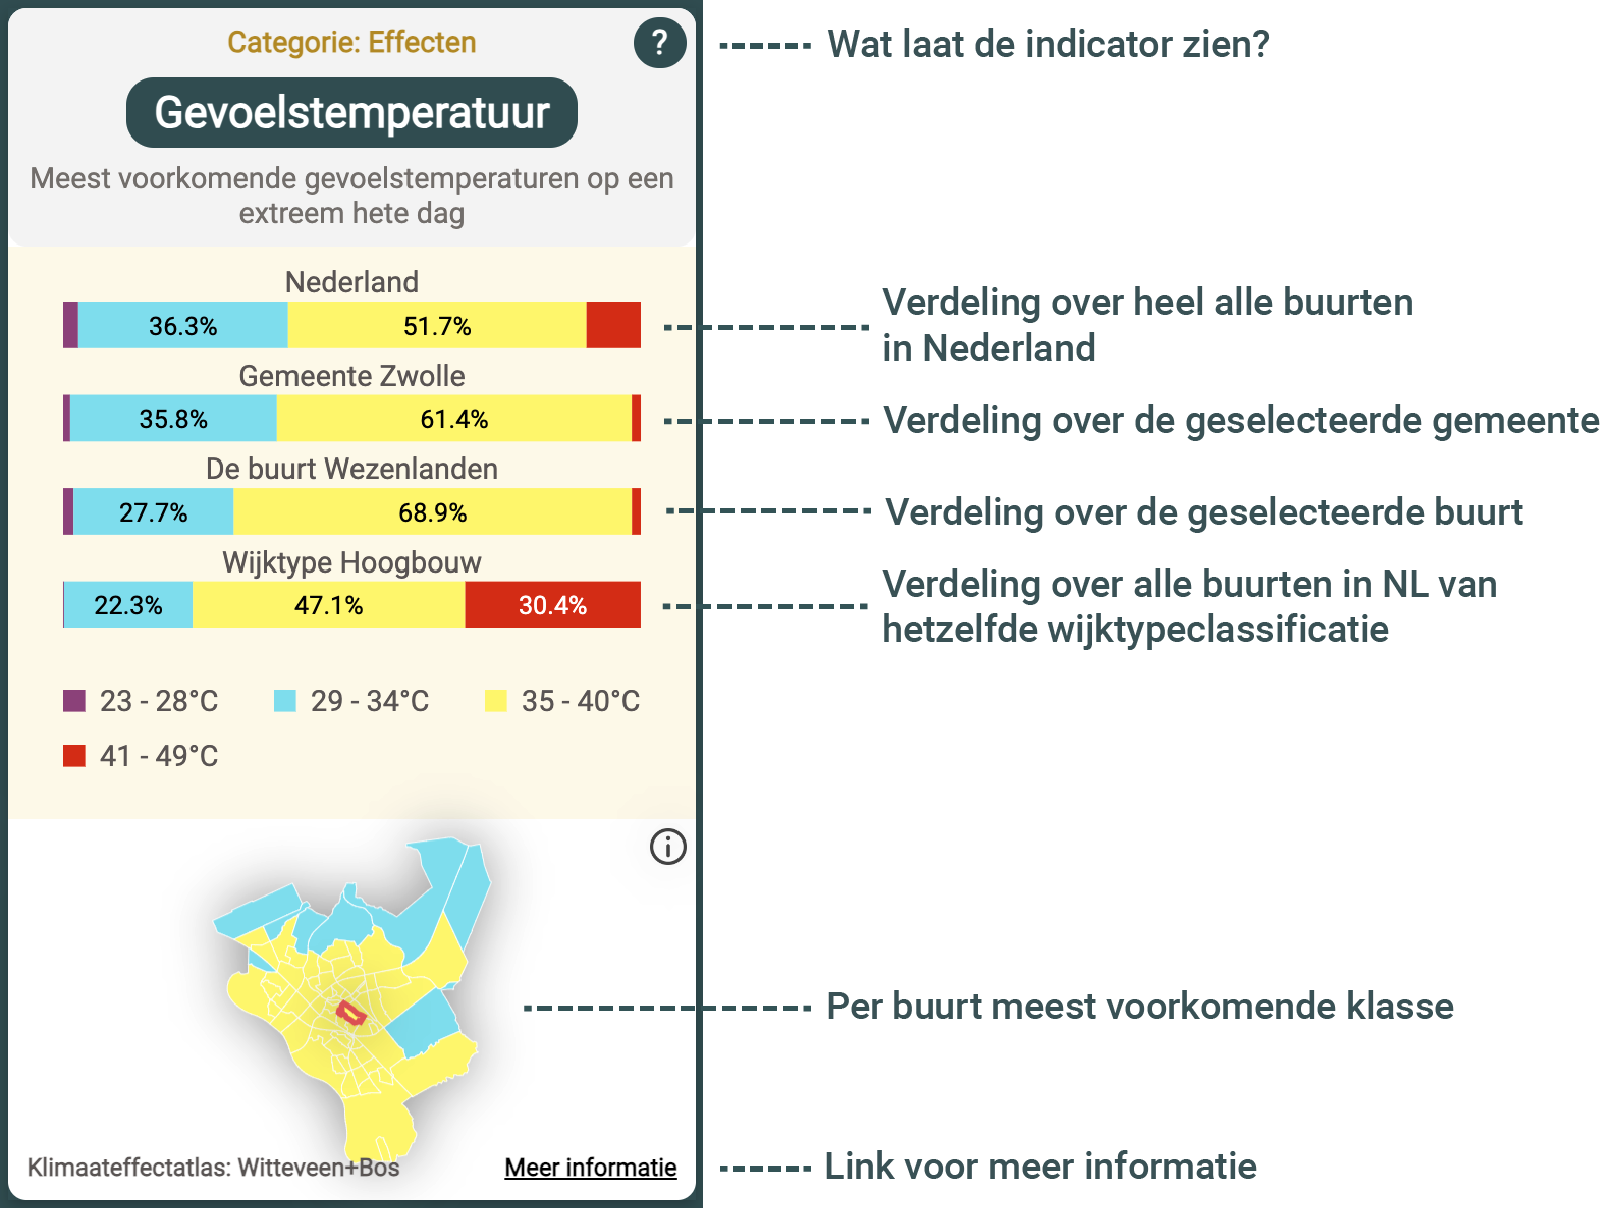
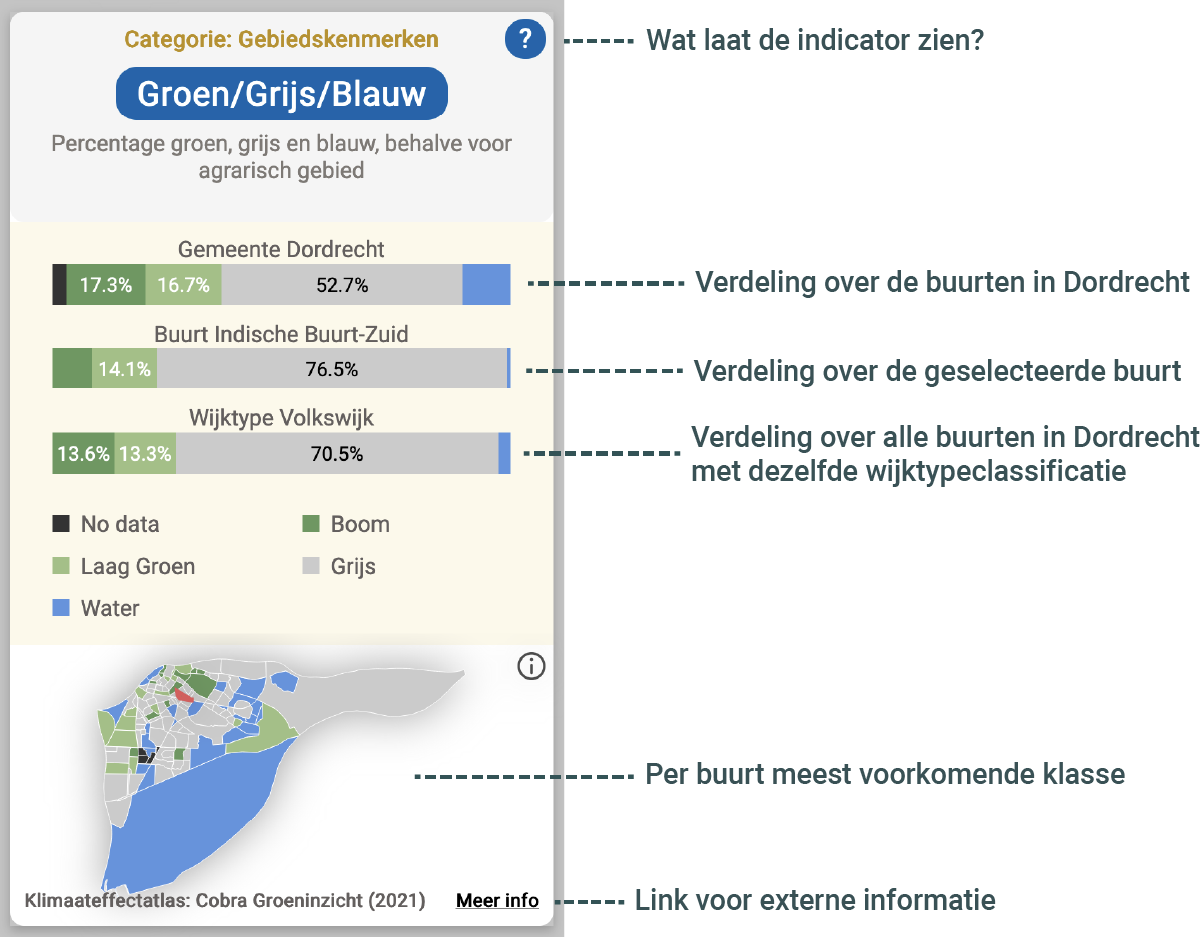
update carousel

Changed region(s): [[0.0, 0.0, 1.0, 1.0]]

diff --git a/src/lib/components/Indicator.svelte b/src/lib/components/Indicator.svelte
@@ -1,5 +1,5 @@
 <script>
-  import { municipalitySelection, neighbourhoodsInMunicipalityJSONData, allNeighbourhoodsJSONData, alleIndicatoren2019, alleIndicatoren2023, jaarSelecties, municipalityCodeAbbreviation, municipalityNameAbbreviation } from "$lib/stores";
+  import { municipalitySelection, neighbourhoodsInMunicipalityJSONData, allNeighbourhoodsJSONData, alleIndicatoren2019, alleIndicatoren2023, jaarSelecties, municipalityCodeAbbreviation, municipalityNameAbbreviation, backgroundColor } from "$lib/stores";
   import BeeswarmPlot from "./BeeswarmPlot.svelte";
   import Stats from "./Stats.svelte";
   import { scaleLinear, extent, scaleOrdinal } from 'd3';
@@ -66,16 +66,16 @@
 </script>
 
 <div class='indicator-div'>
-  <h3 class='question-mark' style='padding:3px 10px 3px 10px; margin:0; position:absolute; border-radius:50px; right:5px; top:5px; color:white;background-color:#36575B; cursor:default'>?</h3>
+  <h3 class='question-mark' style='padding:3px 10px 3px 10px; margin:0; position:absolute; border-radius:50px; right:5px; top:5px; color:white;background-color:{$backgroundColor}; cursor:default'>?</h3>
   <div class={'indicator-info indicator-info-'+indicator.attribute} style='left:{indicatorInfoPosition}px'>
-    <p style='padding:3px 10px 3px 10px; border-radius:50px; color:white;background-color:#36575B; float:left'><strong>{indicator.title}</strong></p>
+    <p style='padding:3px 10px 3px 10px; border-radius:50px; color:white;background-color:{$backgroundColor}; float:left'><strong>{indicator.title}</strong></p>
     <hr width='100%'>
     <p>{indicator.description}</p>
   </div>
 
   <div class='indicator-title' style='height: {titleHeight}px'>
     <h4 style='margin:0px; color:#BB9012'>{t("Categorie")}: {indicator.category}</h4>
-    <h2 style='padding:5px 15px 5px 15px; margin:10px 0px 7px 0px; background-color:#36575B; border-radius:15px; color:white'>{indicator.title}</h2>
+    <h2 style='padding:5px 15px 5px 15px; margin:10px 0px 7px 0px; background-color:{$backgroundColor}; border-radius:15px; color:white'>{indicator.title}</h2>
     <h4 style='margin:0px; padding:0px 10px 0px 10px; font-weight:normal; color:#7e7975; text-align: center;'>{indicator.subtitle}</h4>
     {#if indicator.title === 'Boomkroonbedekking' || indicator.title === 'Boomkroonbedekking 500m'}
       <YearSwitch {indicator} />
@@ -108,7 +108,9 @@
       {/if}
       <span style='width:100%; position:absolute; bottom:0px; display:flex; justify-content:space-between; pointer-events:none'>
         <h5><strong>{indicator.source}</strong></h5>
-        <h5 style='pointer-events:auto'><a target='_blank' href={indicator.link}>{t("Meer_info")}</a></h5>
+        {#if indicator.link}
+          <h5 style='pointer-events:auto'><a target='_blank' href={indicator.link}>{t("Meer_info")}</a></h5>
+        {/if}
       </span>
     </div>
   </div>

diff --git a/src/lib/i18n/en.js b/src/lib/i18n/en.js
@@ -19,8 +19,8 @@ export const english = {
   "Gevoelstemperatuur":"Perceived temperature",
   'Grondwaterstand 2050 hoog':'Groundwater level 2050 high',
   "Over dit dashboard":"<h1>Neighborhood Dashboard Climate Impact Atlas</h1><p>Would you like to gain insights into how climate-resilient one or more neighborhoods are? This neighborhood dashboard can help with that.</p><h3>What can you do with the Neighborhood Dashboard?</h3><p>The neighborhood dashboard provides a quick insight into the climate resilience of neighborhoods. For example, you can find out how green a neighborhood is or what the perceived temperature is on a hot summer day. You can compare the statistics with neighborhoods of the same district type or with the rest of the municipality. The dashboard can also help determine which challenges are the most urgent or where the greatest opportunities for climate adaptation lie.</p><h3>Who is the neighborhood dashboard a useful tool for?</h3><p>The neighborhood dashboard is particularly useful for municipalities. However, other parties involved in climate adaptation can also make use of it.</p><h3>Is the dashboard only suitable for urban areas?</h3><p>The neighborhood dashboard mainly provides insights into urban neighborhoods, although it also includes rural neighborhoods.</p><h3>How was the neighborhood dashboard developed?</h3><p>Much of the information in the neighborhood dashboard comes directly from the Climate Impact Atlas, but some data are from other sources, such as CBS and RIVM. The neighborhood dashboard was developed in collaboration with the Hogeschool van Amsterdam and Deltares.</p>",
-  "Indicator 1": "Indicator type 1: Single numerical indicator",
-  "Indicator 2": "Indicator type 2: Multiple categorical indicator",
+  "Indicator 1": "Indicator type 1: Numerical indicator",
+  "Indicator 2": "Indicator type 2: Categorical indicator",
   "Carousel1-path":"carousel-2-en.png",
   "Carousel2-path":"carousel-1-en.png",
 

diff --git a/src/lib/i18n/nl.js b/src/lib/i18n/nl.js
@@ -19,8 +19,8 @@ export const nederlands = {
   "Gevoelstemperatuur":"Gevoelstemperatuur",
   'Grondwaterstand 2050 hoog':'Grondwaterstand 2050 hoog',
   "Over dit dashboard":"<h1>Buurtdashboard Klimaateffectatlas</h1><p>Wil je voor één of meer buurten inzicht krijgen in hoe klimaatbestendig ze zijn? Daar kan dit buurtdashboard je bij helpen.</p><h3>Wat kun je met het Buurtdashboard?</h3><p>Met het buurtdashboard krijg je snel inzicht in hoe klimaatbestendig buurten zijn. Je kunt er bijvoorbeeld vinden hoe groen een buurt is of hoe hoog de gevoelstemperatuur is op een warme zomerdag. De statistieken kun je vergelijken met buurten van hetzelfde wijktype of met de rest van de gemeente. Ook kan het buurtdashboard helpen om te bepalen welke opgaven het meest urgent zijn of waar de meeste kansen liggen voor klimaatadaptatie.</p><h3>Voor wie is het buurtdashboard een handige tool?</h3><p>Het buurtdashboard is vooral handig voor gemeenten. Maar ook andere partijen die met klimaatadaptatie aan de slag willen, kunnen er gebruik van maken.</p><h3>Is het dashboard alleen geschikt voor stedelijk gebied?</h3><p>Het buurtdashboard biedt vooral inzicht in stedelijke buurten, al staan er ook landelijke buurten in.</p><h3>Hoe is het buurtdashboard tot stand gekomen? </h3><p>  Veel informatie in het buurtdasboard komt direct uit de Klimaateffectatlas, maar sommige gegevens komen van andere sourcenen, zoals van het CBS en RIVM. Het buurtdashboard is ontwikkeld in samenwerking met de Hogeschool van Amsterdam en Deltares. </p>",
-  "Indicator 1": "Indicator type 1: Enkelvoudige numerieke indicator",
-  "Indicator 2": "Indicator type 2: Meervoudige categorische indicator",
+  "Indicator 1": "Indicator type 1: Kwantitatieve indicator",
+  "Indicator 2": "Indicator type 2: Categorische indicator",
   "Carousel1-path":"carousel-2.png",
   "Carousel2-path":"carousel-1.png"
 

diff --git a/src/lib/components/YearSwitch.svelte b/src/lib/components/YearSwitch.svelte
@@ -1,5 +1,5 @@
 <script>
-  import { indicatorYearChanged, jaarSelecties } from "$lib/stores";
+  import { indicatorYearChanged, jaarSelecties, backgroundColor } from "$lib/stores";
     import { selectAll } from "d3";
 
   export let indicator
@@ -36,13 +36,13 @@
 
 <svg>
   <g transform='translate(0,12)' font-size='18'>
-    <rect class={(selectedYear === '2019') ? '' : 'passive'} stroke='lightgrey' stroke-width='2' width={rectWidth} height={rectHeight} rx='12' fill={(selectedYear === '2019') ? '#36575B' : 'lightgrey'}
+    <rect class={(selectedYear === '2019') ? '' : 'passive'} stroke='lightgrey' stroke-width='2' width={rectWidth} height={rectHeight} rx='12' fill={(selectedYear === '2019') ? $backgroundColor : 'lightgrey'}
     on:click={() => {yearClick('2019')}}
     on:mouseover={() => {yearMouseOver('2019')}}
     on:mouseout={() => {yearMouseOut('2019')}}/>
     <text x={11} y={rectHeight/2 + 6} fill={(selectedYear === '2019') ? 'white' : 'grey'}>2019</text>
 
-    <rect class={(selectedYear === '2023') ? '' : 'passive'} stroke='lightgrey' stroke-width='2' x={rectWidth+spaceBetween} width={rectWidth} height={rectHeight} rx='12' fill={(selectedYear === '2023') ? '#36575B' : 'lightgrey'}
+    <rect class={(selectedYear === '2023') ? '' : 'passive'} stroke='lightgrey' stroke-width='2' x={rectWidth+spaceBetween} width={rectWidth} height={rectHeight} rx='12' fill={(selectedYear === '2023') ? $backgroundColor : 'lightgrey'}
     on:click={() => {yearClick('2023')}}
     on:mouseover={() => {yearMouseOver('2023')}}
     on:mouseout={() => {yearMouseOut('2023')}}/>

diff --git a/src/lib/components/controlPanel/ControlPanel.svelte b/src/lib/components/controlPanel/ControlPanel.svelte
@@ -40,6 +40,7 @@
 
 <div class='search'>
   <div>
+    <!-- <img src='./dordrecht-icon2.png' class='dord-icon'/> -->
     <div class='download-and-about'>
       <div class='about' on:click={() => laatMeerInfoPanelZien('intro')}>
         <img src='./about.png' width='30px'/>
@@ -50,8 +51,8 @@
         <p class='download-and-about-text'>{t('Uitleg_grafieken')}</p>
       </div>
       <div class='download'>
-        <a href='https://github.com/Climate-Adaptation-Services/buurtdashboard-data/raw/main/BuurtdashboardDataDownload20240913.xlsx' download='BuurtdashboardDownload20240805'><img src='./download.png' width='30px'/></a>
-        <p class='download-and-about-text'>Download data</p>
+        <!-- <a href='https://github.com/Climate-Adaptation-Services/buurtdashboard-data/raw/main/BuurtdashboardDataDownload20240913.xlsx' download='BuurtdashboardDownload20240805'><img src='./download.png' width='30px'/></a> -->
+        <!-- <p class='download-and-about-text'>Download data</p> -->
       </div>
     </div>
     <GemeenteSelect {lijstAlleGemeentesVoorDropdown} />
@@ -97,5 +98,13 @@
   }
   .about:hover .download-and-about-text{
     visibility: visible; 
+  }
+
+  .dord-icon{
+    position:absolute;
+    top:0;
+    left:0;
+    width:100%;
+    z-index: -1000;
   }
 </style>

diff --git a/src/lib/components/BarPlotLegend.svelte b/src/lib/components/BarPlotLegend.svelte
@@ -9,10 +9,10 @@
   // $: innerwidth3 = (graphWidth - 2*padding3) / 3
   // $: innerwidth2 = (graphWidth - 2*padding2) / 2
 
-  const margin = {top:30, bottom:30, left:30, right:0}
-  $: legendElementWidth = (graphWidth-margin.left-margin.right) / 2
-
   const klasseNamen = Object.keys(indicator.classes)
+  const marginTop = (klasseNamen.length > 4) ? 4 : 20
+  const margin = {top:marginTop, bottom:30, left:30, right:0}
+  $: legendElementWidth = (graphWidth-margin.left-margin.right) / 2
 
 </script>
 

diff --git a/src/lib/stores.js b/src/lib/stores.js
@@ -25,6 +25,8 @@ export const alleIndicatoren2023 = writable([])
 export const jaarSelecties = writable({})
 export const indicatorYearChanged = writable([])
 
+export const backgroundColor = readable('#0064af')
+
 export const selectedNeighbourhoodJSONData = derived(
   [allNeighbourhoodsJSONData, neighbourhoodSelection],
   ([$allNeighbourhoodsJSONData, $neighbourhoodSelection]) => {

diff --git a/src/lib/components/OverDitDashboard.svelte b/src/lib/components/OverDitDashboard.svelte
@@ -10,7 +10,6 @@
     export let type = 'intro'
 
     onMount(() => {
-      // selectAll('h1,h3').style('color', "#36575B")
       selectAll("h3").style("margin-bottom", "0px")
       selectAll("p").style("margin-top", '8px')
   

diff --git a/static/global.css b/static/global.css
@@ -4,7 +4,7 @@ body{
   margin:0;
   font-family: Roboto;
   /* background-color: #fefffa; */
-  background-color: #36575B;
+  background-color: rgb(196, 196, 196);
   color: #645F5E
 }
 
